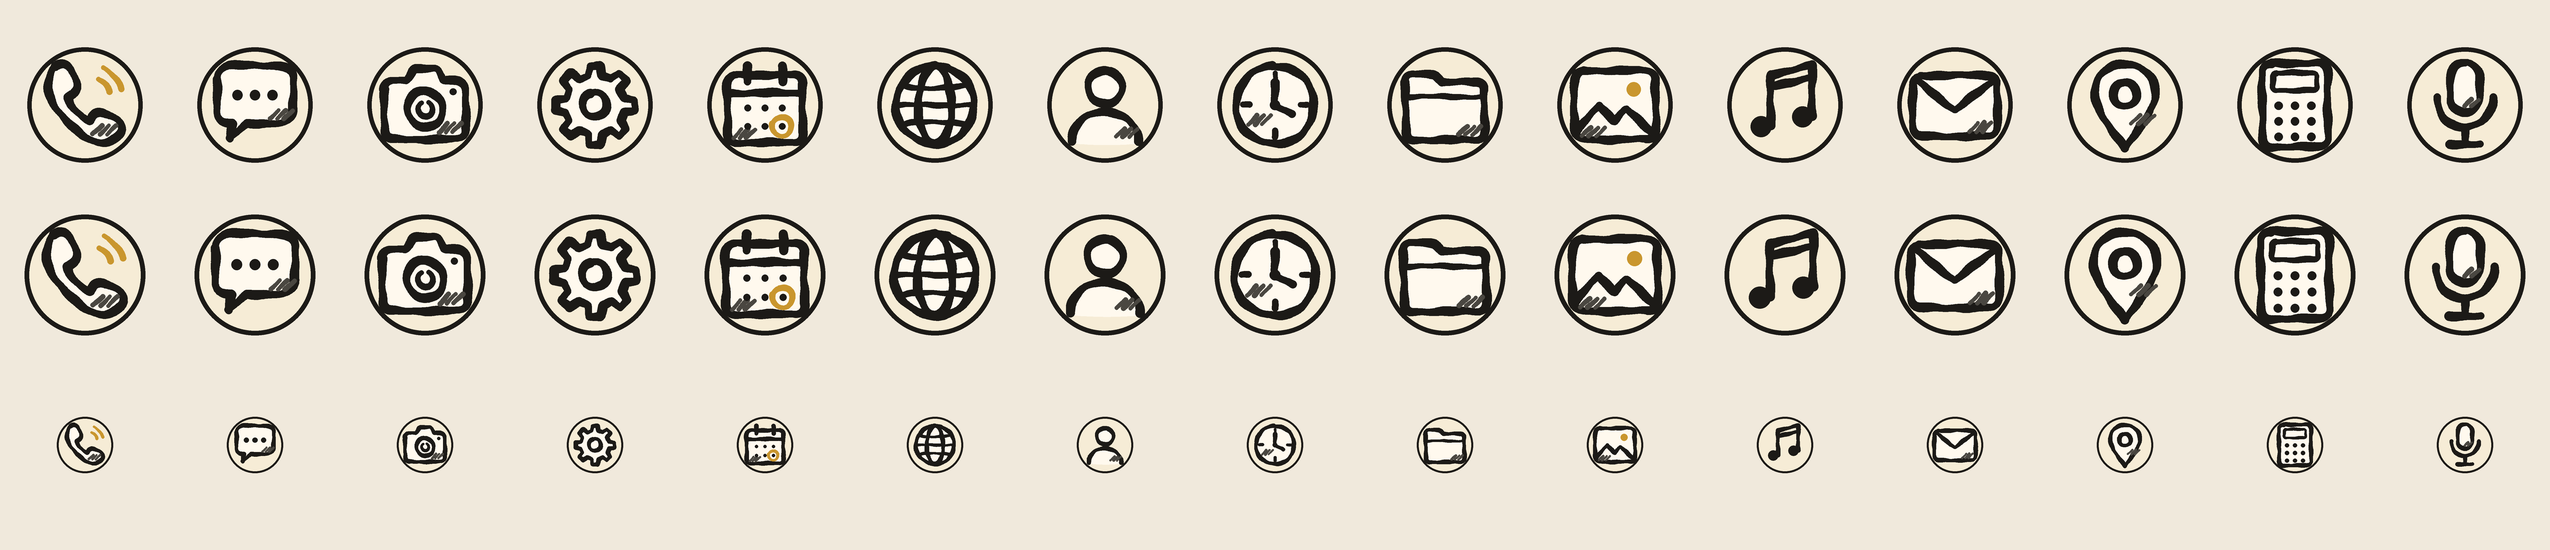
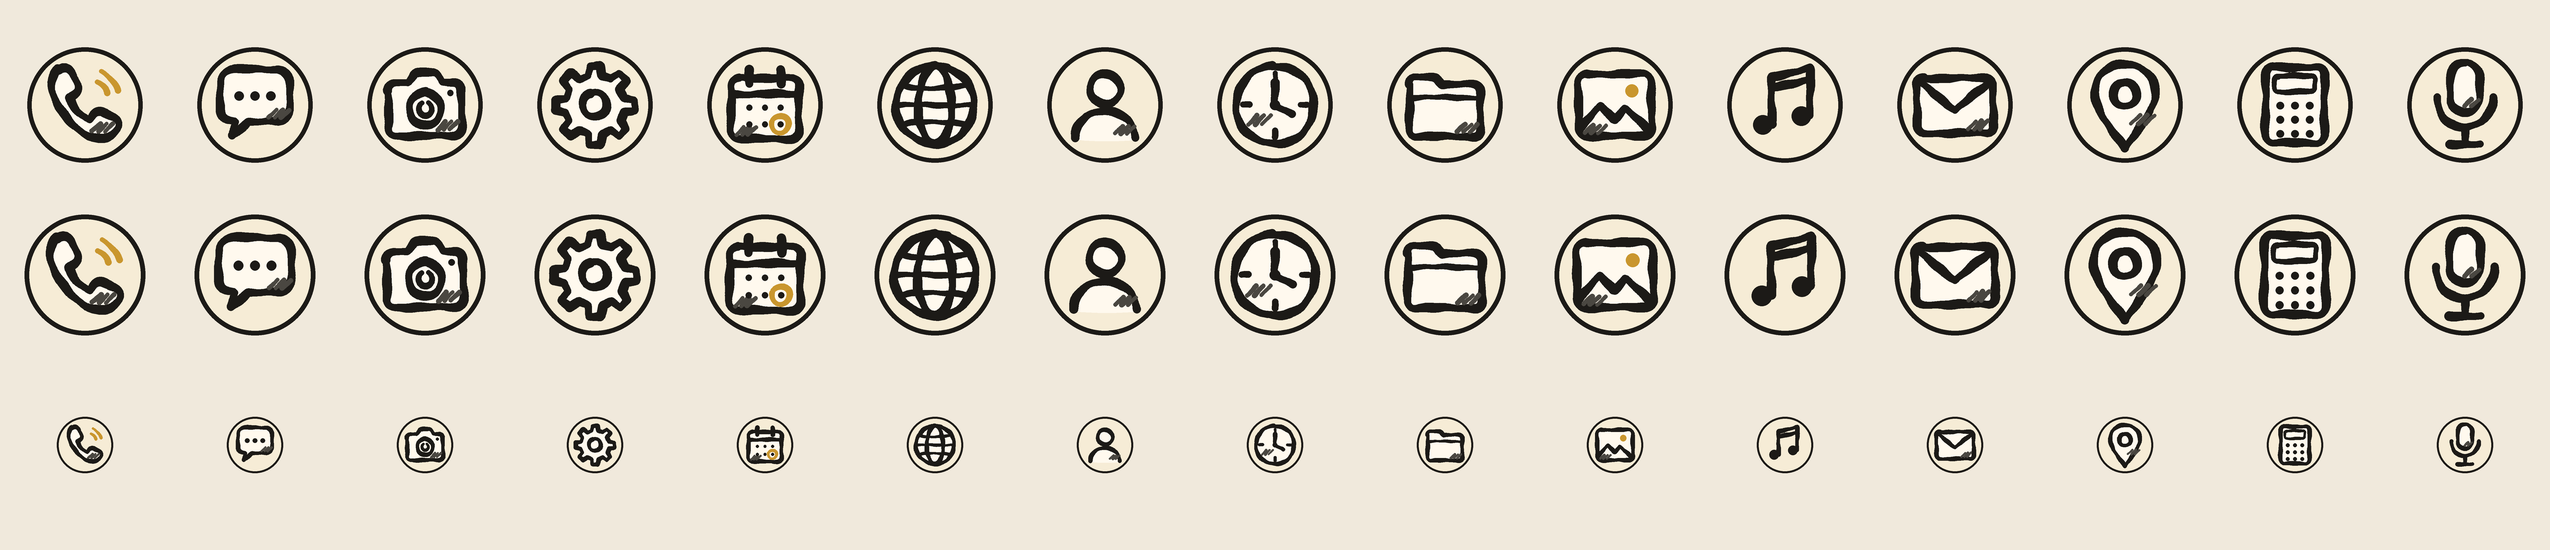
Ink sketch symbols: more clear paper between symbol and ring

diff --git a/app/src/main/java/com/rr/numio/launcher/sketch/SketchGlyphs.kt b/app/src/main/java/com/rr/numio/launcher/sketch/SketchGlyphs.kt
@@ -7,27 +7,27 @@ object SketchGlyphs {
 
     val all: Map<SketchKind, List<Layer>> = mapOf(
         SketchKind.Phone to listOf(
-            Layer.Fill(Tone.CREAM, "M31.2,25.3 C35.2,22.9 39.6,24.3 41.6,28.8 L44.6,36.2 C45.7,39.1 44.7,41.7 42.1,43.3 L39.3,45.1 C41.7,51.5 46.6,56.9 53.2,60.3 L54.9,57.5 C56.5,55.1 59.1,54.3 61.8,55.3 L69.3,58.3 C73.7,60.1 74.9,64.6 71.9,68.4 C66.3,74.9 57.4,75.3 47.6,68.4 C37.6,61.3 28.9,50 27.3,40.7 C26.5,35.2 27.7,28.3 31.2,25.3 Z"),
-            Layer.Ink("M31.2,25.3 C35.2,22.9 39.6,24.3 41.6,28.8 L44.6,36.2 C45.7,39.1 44.7,41.7 42.1,43.3 L39.3,45.1 C41.7,51.5 46.6,56.9 53.2,60.3 L54.9,57.5 C56.5,55.1 59.1,54.3 61.8,55.3 L69.3,58.3 C73.7,60.1 74.9,64.6 71.9,68.4 C66.3,74.9 57.4,75.3 47.6,68.4 C37.6,61.3 28.9,50 27.3,40.7 C26.5,35.2 27.7,28.3 31.2,25.3 Z"),
-            Layer.Hatch("M54.9,68.3 L60.5,62.7 M59.3,68.3 L64.8,62.7 M63.6,68.3 L69.2,62.7"),
-            Layer.Thin(Tone.GOLD, "M58.5,33.8 C61.6,35.5 64,38.4 65.1,41.8"),
-            Layer.Thin(Tone.GOLD, "M61.5,26.5 C67,29.3 71.1,34.1 72.8,40"),
+            Layer.Fill(Tone.CREAM, "M33.1,27.7 C36.6,25.5 40.6,26.8 42.4,30.8 L45.1,37.5 C46.1,40.2 45.2,42.5 42.9,43.9 L40.4,45.5 C42.5,51.3 47,56.2 52.9,59.3 L54.5,56.8 C55.9,54.6 58.2,53.9 60.7,54.8 L67.5,57.5 C71.4,59.1 72.5,63.2 69.8,66.6 C64.7,72.5 56.7,72.8 47.9,66.6 C38.8,60.2 30.9,50 29.5,41.6 C28.8,36.6 29.8,30.4 33.1,27.7 Z"),
+            Layer.Ink("M33.1,27.7 C36.6,25.5 40.6,26.8 42.4,30.8 L45.1,37.5 C46.1,40.2 45.2,42.5 42.9,43.9 L40.4,45.5 C42.5,51.3 47,56.2 52.9,59.3 L54.5,56.8 C55.9,54.6 58.2,53.9 60.7,54.8 L67.5,57.5 C71.4,59.1 72.5,63.2 69.8,66.6 C64.7,72.5 56.7,72.8 47.9,66.6 C38.8,60.2 30.9,50 29.5,41.6 C28.8,36.6 29.8,30.4 33.1,27.7 Z"),
+            Layer.Hatch("M54.5,66.5 L59.5,61.5 M58.4,66.5 L63.4,61.5 M62.3,66.5 L67.3,61.5"),
+            Layer.Thin(Tone.GOLD, "M57.7,35.4 C60.5,36.9 62.7,39.5 63.6,42.6"),
+            Layer.Thin(Tone.GOLD, "M60.3,28.8 C65.3,31.3 69.1,35.6 70.6,41"),
         ),
         SketchKind.Messages to listOf(
-            Layer.Fill(Tone.CREAM, "M26.1,33.8 C26.1,28.5 29.9,25.2 35.2,25.2 L64.8,25.2 C70.1,25.2 73.9,28.5 73.9,33.8 L73.9,52.9 C73.9,58.1 70.1,61.5 64.8,61.5 L45.2,61.5 L33.8,71.5 L36.1,61.5 L35.2,61.5 C29.9,61.5 26.1,58.1 26.1,52.9 Z"),
-            Layer.Ink("M26.1,33.8 C26.1,28.5 29.9,25.2 35.2,25.2 L64.8,25.2 C70.1,25.2 73.9,28.5 73.9,33.8 L73.9,52.9 C73.9,58.1 70.1,61.5 64.8,61.5 L45.2,61.5 L33.8,71.5 L36.1,61.5 L35.2,61.5 C29.9,61.5 26.1,58.1 26.1,52.9 Z"),
-            Layer.Hatch("M59.6,58.6 L64.9,53.2 M63.8,58.6 L69.1,53.2 M68,58.6 L73.3,53.2"),
-            Layer.Dot(Tone.INK, 39f, 43.8f, 3.2f),
-            Layer.Dot(Tone.INK, 50f, 43.8f, 3.2f),
-            Layer.Dot(Tone.INK, 61f, 43.8f, 3.2f),
+            Layer.Fill(Tone.CREAM, "M28.4,35.3 C28.4,30.6 31.9,27.6 36.6,27.6 L63.4,27.6 C68.1,27.6 71.6,30.6 71.6,35.3 L71.6,52.6 C71.6,57.3 68.1,60.4 63.4,60.4 L45.7,60.4 L35.3,69.4 L37.5,60.4 L36.6,60.4 C31.9,60.4 28.4,57.3 28.4,52.6 Z"),
+            Layer.Ink("M28.4,35.3 C28.4,30.6 31.9,27.6 36.6,27.6 L63.4,27.6 C68.1,27.6 71.6,30.6 71.6,35.3 L71.6,52.6 C71.6,57.3 68.1,60.4 63.4,60.4 L45.7,60.4 L35.3,69.4 L37.5,60.4 L36.6,60.4 C31.9,60.4 28.4,57.3 28.4,52.6 Z"),
+            Layer.Hatch("M58.6,57.8 L63.5,52.9 M62.4,57.8 L67.3,52.9 M66.2,57.8 L71.1,52.9"),
+            Layer.Dot(Tone.INK, 40.1f, 44.4f, 2.9f),
+            Layer.Dot(Tone.INK, 50f, 44.4f, 2.9f),
+            Layer.Dot(Tone.INK, 59.9f, 44.4f, 2.9f),
         ),
         SketchKind.Camera to listOf(
-            Layer.Fill(Tone.CREAM, "M24.6,40.2 C24.6,36.8 27,34.4 30.4,34.4 L38.3,34.4 L41.7,29 C42.5,27.8 43.5,27.3 44.9,27.3 L55.1,27.3 C56.5,27.3 57.5,27.8 58.3,29 L61.7,34.4 L69.6,34.4 C73,34.4 75.4,36.8 75.4,40.2 L75.4,65.6 C75.4,69.1 73,71.5 69.6,71.5 L30.4,71.5 C27,71.5 24.6,69.1 24.6,65.6 Z"),
-            Layer.Ink("M24.6,40.2 C24.6,36.8 27,34.4 30.4,34.4 L38.3,34.4 L41.7,29 C42.5,27.8 43.5,27.3 44.9,27.3 L55.1,27.3 C56.5,27.3 57.5,27.8 58.3,29 L61.7,34.4 L69.6,34.4 C73,34.4 75.4,36.8 75.4,40.2 L75.4,65.6 C75.4,69.1 73,71.5 69.6,71.5 L30.4,71.5 C27,71.5 24.6,69.1 24.6,65.6 Z"),
-            Layer.Hatch("M58.8,67.1 L64.3,61.6 M63.1,67.1 L68.6,61.6 M67.4,67.1 L72.9,61.6"),
-            Layer.Ink("M48,41.4 C53,40.5 57.9,43.1 60.2,47.6 C62.3,52.2 61.2,57.6 57.4,61 C53.6,64.3 48,64.6 43.8,61.8 C39.6,59.1 37.8,53.8 39.2,49 C40.8,44.2 45.3,41 50.4,41.2"),
-            Layer.Thin(Tone.INK, "M52.2,48.5 C54,49.6 54.9,51.7 54.3,53.6 C53.8,55.6 52.1,56.9 50,56.9 C47.9,56.9 46.2,55.6 45.7,53.6 C45.1,51.7 46,49.6 47.8,48.5"),
-            Layer.Dot(Tone.INK, 67.6f, 41.7f, 2.2f),
+            Layer.Fill(Tone.CREAM, "M27,41.2 C27,38.1 29.2,35.9 32.3,35.9 L39.4,35.9 L42.5,31 C43.2,30 44.2,29.5 45.4,29.5 L54.6,29.5 C55.8,29.5 56.8,30 57.5,31 L60.6,35.9 L67.7,35.9 C70.8,35.9 73,38.1 73,41.2 L73,64.1 C73,67.2 70.8,69.4 67.7,69.4 L32.3,69.4 C29.2,69.4 27,67.2 27,64.1 Z"),
+            Layer.Ink("M27,41.2 C27,38.1 29.2,35.9 32.3,35.9 L39.4,35.9 L42.5,31 C43.2,30 44.2,29.5 45.4,29.5 L54.6,29.5 C55.8,29.5 56.8,30 57.5,31 L60.6,35.9 L67.7,35.9 C70.8,35.9 73,38.1 73,41.2 L73,64.1 C73,67.2 70.8,69.4 67.7,69.4 L32.3,69.4 C29.2,69.4 27,67.2 27,64.1 Z"),
+            Layer.Hatch("M57.9,65.5 L62.9,60.5 M61.8,65.5 L66.8,60.5 M65.7,65.5 L70.7,60.5"),
+            Layer.Ink("M48.2,42.2 C52.7,41.4 57.2,43.7 59.2,47.8 C61.1,51.9 60.2,56.9 56.7,59.9 C53.3,62.9 48.2,63.2 44.4,60.7 C40.6,58.2 39,53.4 40.3,49.1 C41.7,44.8 45.8,41.9 50.4,42.1"),
+            Layer.Thin(Tone.INK, "M52,48.7 C53.6,49.6 54.4,51.5 53.9,53.3 C53.4,55 51.9,56.3 50,56.3 C48.1,56.3 46.6,55 46.1,53.3 C45.6,51.5 46.4,49.6 48,48.7"),
+            Layer.Dot(Tone.INK, 65.9f, 42.5f, 1.9f),
         ),
         SketchKind.Settings to listOf(
             Layer.Fill(Tone.CREAM, "M45.6,31.7 L46.7,25.2 L53.3,25.2 L54.4,31.7 L59.8,34 L65.2,30.1 L69.9,34.8 L66,40.2 L68.3,45.6 L74.8,46.7 L74.8,53.3 L68.3,54.4 L66,59.8 L69.9,65.2 L65.2,69.9 L59.8,66 L54.4,68.3 L53.3,74.8 L46.7,74.8 L45.6,68.3 L40.2,66 L34.8,69.9 L30.1,65.2 L34,59.8 L31.7,54.4 L25.2,53.3 L25.2,46.7 L31.7,45.6 L34,40.2 L30.1,34.8 L34.8,30.1 L40.2,34 Z"),
@@ -35,19 +35,19 @@ object SketchGlyphs {
             Layer.Ink("M46.2,43.4 C49.1,41.7 52.8,42.2 55.2,44.5 C57.7,46.8 58.3,50.5 56.8,53.5 C55.2,56.5 51.9,58.1 48.6,57.5 C45.3,56.8 42.8,54.1 42.4,50.7 C42.1,47.4 44,44.2 47.2,43"),
         ),
         SketchKind.Calendar to listOf(
-            Layer.Fill(Tone.CREAM, "M32.1,31.1 L67.9,31.1 C71,31.1 73.6,33.7 73.6,36.8 L73.6,67.9 C73.6,71 71,73.6 67.9,73.6 L32.1,73.6 C29,73.6 26.4,71 26.4,67.9 L26.4,36.8 C26.4,33.7 29,31.1 32.1,31.1 Z"),
-            Layer.Ink("M32.1,31.1 L67.9,31.1 C71,31.1 73.6,33.7 73.6,36.8 L73.6,67.9 C73.6,71 71,73.6 67.9,73.6 L32.1,73.6 C29,73.6 26.4,71 26.4,67.9 L26.4,36.8 C26.4,33.7 29,31.1 32.1,31.1 Z"),
-            Layer.Hatch("M30.2,70.8 L35.5,65.5 M34.3,70.8 L39.6,65.5 M38.5,70.8 L43.8,65.5"),
-            Layer.Ink("M27.4,42.5 L73.1,42.5"),
-            Layer.Ink("M38.7,25.5 L38.7,35.4"),
-            Layer.Ink("M61.3,25.5 L61.3,35.4"),
-            Layer.Thin(Tone.GOLD, "M55.7,60.4 C57.2,57.6 60.7,56.6 63.5,58 C66.4,59.4 67.6,62.7 66.4,65.7 C65.2,68.7 61.9,70.1 58.9,69.1 C55.8,68.1 54.2,64.9 55,61.8"),
-            Layer.Dot(Tone.INK, 39.2f, 51.9f, 2.1f),
-            Layer.Dot(Tone.INK, 50f, 51.9f, 2.1f),
-            Layer.Dot(Tone.INK, 60.8f, 51.9f, 2.1f),
-            Layer.Dot(Tone.INK, 39.2f, 63.4f, 2.1f),
-            Layer.Dot(Tone.INK, 50f, 63.4f, 2.1f),
-            Layer.Dot(Tone.INK, 60.8f, 63.4f, 2.1f),
+            Layer.Fill(Tone.CREAM, "M33.8,33 L66.2,33 C69,33 71.3,35.3 71.3,38.1 L71.3,66.2 C71.3,69 69,71.3 66.2,71.3 L33.8,71.3 C31,71.3 28.7,69 28.7,66.2 L28.7,38.1 C28.7,35.3 31,33 33.8,33 Z"),
+            Layer.Ink("M33.8,33 L66.2,33 C69,33 71.3,35.3 71.3,38.1 L71.3,66.2 C71.3,69 69,71.3 66.2,71.3 L33.8,71.3 C31,71.3 28.7,69 28.7,66.2 L28.7,38.1 C28.7,35.3 31,33 33.8,33 Z"),
+            Layer.Hatch("M32.1,68.7 L36.9,64 M35.9,68.7 L40.6,64 M39.6,68.7 L44.4,64"),
+            Layer.Ink("M29.6,43.2 L70.9,43.2"),
+            Layer.Ink("M39.8,27.8 L39.8,36.8"),
+            Layer.Ink("M60.2,27.8 L60.2,36.8"),
+            Layer.Thin(Tone.GOLD, "M55.1,59.4 C56.5,56.9 59.6,56 62.2,57.2 C64.8,58.5 65.9,61.5 64.8,64.1 C63.7,66.9 60.7,68.1 58,67.3 C55.3,66.4 53.7,63.5 54.5,60.7"),
+            Layer.Dot(Tone.INK, 40.2f, 51.7f, 1.9f),
+            Layer.Dot(Tone.INK, 50f, 51.7f, 1.9f),
+            Layer.Dot(Tone.INK, 59.8f, 51.7f, 1.9f),
+            Layer.Dot(Tone.INK, 40.2f, 62.1f, 1.9f),
+            Layer.Dot(Tone.INK, 50f, 62.1f, 1.9f),
+            Layer.Dot(Tone.INK, 59.8f, 62.1f, 1.9f),
         ),
         SketchKind.Browser to listOf(
             Layer.Fill(Tone.CREAM, "M74.5,50 C74.5,63.5 63.5,74.5 50,74.5 C36.5,74.5 25.5,63.5 25.5,50 C25.5,36.5 36.5,25.5 50,25.5 C63.5,25.5 74.5,36.5 74.5,50 Z"),
@@ -58,11 +58,11 @@ object SketchGlyphs {
             Layer.Thin(Tone.INK, "M29.8,62.5 C40.5,59.7 59.5,59.7 70.2,62.5"),
         ),
         SketchKind.Contacts to listOf(
-            Layer.Fill(Tone.CREAM, "M60.5,39 C60.5,44.9 55.8,49.5 50,49.5 C44.2,49.5 39.5,44.9 39.5,39 C39.5,33.2 44.2,28.6 50,28.6 C55.8,28.6 60.5,33.2 60.5,39 Z"),
-            Layer.Fill(Tone.CREAM, "M29,72.8 C29,61 38.1,54.6 50,54.6 C61.9,54.6 71,61 71,72.8 C62.8,74.2 37.2,74.2 29,72.8 Z"),
-            Layer.Ink("M53.6,29.2 C57.9,30.7 60.8,35 60.5,39.6 C60.2,44.3 56.9,48.2 52.5,49.3 C48,50.4 43.2,48.4 41,44.3 C38.6,40.3 39.1,35.3 42.3,31.9 C45.4,28.6 50.5,27.6 54.6,29.7"),
-            Layer.Ink("M29,72.8 C29,61 38.1,54.6 50,54.6 C61.9,54.6 71,61 71,72.8"),
-            Layer.Hatch("M57.3,70.1 L62.4,65 M61.3,70.1 L66.4,65 M65.3,70.1 L70.4,65"),
+            Layer.Fill(Tone.CREAM, "M59.5,40.1 C59.5,45.4 55.3,49.6 50,49.6 C44.7,49.6 40.5,45.4 40.5,40.1 C40.5,34.8 44.7,30.6 50,30.6 C55.3,30.6 59.5,34.8 59.5,40.1 Z"),
+            Layer.Fill(Tone.CREAM, "M31,70.6 C31,59.9 39.3,54.1 50,54.1 C60.7,54.1 69,59.9 69,70.6 C61.5,71.8 38.5,71.8 31,70.6 Z"),
+            Layer.Ink("M53.2,31.2 C57.2,32.6 59.7,36.5 59.5,40.6 C59.2,44.8 56.3,48.4 52.2,49.3 C48.2,50.3 43.9,48.5 41.8,44.9 C39.7,41.3 40.2,36.7 43.1,33.7 C45.9,30.6 50.4,29.7 54.1,31.6"),
+            Layer.Ink("M31,70.6 C31,59.9 39.3,54.1 50,54.1 C60.7,54.1 69,59.9 69,70.6"),
+            Layer.Hatch("M56.6,68.1 L61.2,63.5 M60.2,68.1 L64.8,63.5 M63.8,68.1 L68.5,63.5"),
         ),
         SketchKind.Clock to listOf(
             Layer.Fill(Tone.CREAM, "M74.5,50 C74.5,63.5 63.5,74.5 50,74.5 C36.5,74.5 25.5,63.5 25.5,50 C25.5,36.5 36.5,25.5 50,25.5 C63.5,25.5 74.5,36.5 74.5,50 Z"),
@@ -77,29 +77,29 @@ object SketchGlyphs {
             Layer.Dot(Tone.INK, 50f, 50f, 3.2f),
         ),
         SketchKind.Files to listOf(
-            Layer.Fill(Tone.CREAM, "M25.3,35.7 C25.3,32.4 27.4,30.5 30.5,30.5 L41.9,30.5 C43.3,30.5 44.5,31.1 45.3,32.1 L48.1,35.7 L69.5,35.7 C72.6,35.7 74.7,37.8 74.7,41 L74.7,66.6 C74.7,69.8 72.6,71.9 69.5,71.9 L30.5,71.9 C27.4,71.9 25.3,69.8 25.3,66.6 Z"),
-            Layer.Ink("M25.3,35.7 C25.3,32.4 27.4,30.5 30.5,30.5 L41.9,30.5 C43.3,30.5 44.5,31.1 45.3,32.1 L48.1,35.7 L69.5,35.7 C72.6,35.7 74.7,37.8 74.7,41 L74.7,66.6 C74.7,69.8 72.6,71.9 69.5,71.9 L30.5,71.9 C27.4,71.9 25.3,69.8 25.3,66.6 Z"),
-            Layer.Thin(Tone.INK, "M25.7,44.8 L74.3,44.8"),
-            Layer.Hatch("M58.6,68.5 L63.9,63.2 M62.7,68.5 L68.1,63.2 M66.9,68.5 L72.3,63.2"),
+            Layer.Fill(Tone.CREAM, "M27.7,37.1 C27.7,34.1 29.6,32.4 32.4,32.4 L42.7,32.4 C44,32.4 45,32.9 45.8,33.8 L48.3,37.1 L67.6,37.1 C70.4,37.1 72.3,39 72.3,41.8 L72.3,65 C72.3,67.9 70.4,69.8 67.6,69.8 L32.4,69.8 C29.6,69.8 27.7,67.9 27.7,65 Z"),
+            Layer.Ink("M27.7,37.1 C27.7,34.1 29.6,32.4 32.4,32.4 L42.7,32.4 C44,32.4 45,32.9 45.8,33.8 L48.3,37.1 L67.6,37.1 C70.4,37.1 72.3,39 72.3,41.8 L72.3,65 C72.3,67.9 70.4,69.8 67.6,69.8 L32.4,69.8 C29.6,69.8 27.7,67.9 27.7,65 Z"),
+            Layer.Thin(Tone.INK, "M28.1,45.3 L71.9,45.3"),
+            Layer.Hatch("M57.7,66.8 L62.5,61.9 M61.5,66.8 L66.3,61.9 M65.3,66.8 L70.1,61.9"),
         ),
         SketchKind.Gallery to listOf(
-            Layer.Fill(Tone.CREAM, "M30.4,28.4 L69.6,28.4 C72.9,28.4 75.5,31.1 75.5,34.3 L75.5,65.7 C75.5,68.9 72.9,71.6 69.6,71.6 L30.4,71.6 C27.1,71.6 24.5,68.9 24.5,65.7 L24.5,34.3 C24.5,31.1 27.1,28.4 30.4,28.4 Z"),
-            Layer.Ink("M30.4,28.4 L69.6,28.4 C72.9,28.4 75.5,31.1 75.5,34.3 L75.5,65.7 C75.5,68.9 72.9,71.6 69.6,71.6 L30.4,71.6 C27.1,71.6 24.5,68.9 24.5,65.7 L24.5,34.3 C24.5,31.1 27.1,28.4 30.4,28.4 Z"),
-            Layer.Ink("M26.5,65.7 L40.2,50 L49.5,59.8 L56.9,52.5 L74,67.7"),
-            Layer.Dot(Tone.GOLD, 61.8f, 40.2f, 4.5f),
-            Layer.Hatch("M29.4,69.6 L34.9,64.1 M33.7,69.6 L39.2,64.1 M38,69.6 L43.5,64.1"),
+            Layer.Fill(Tone.CREAM, "M32.3,30.5 L67.7,30.5 C70.6,30.5 73,32.9 73,35.8 L73,64.2 C73,67.1 70.6,69.5 67.7,69.5 L32.3,69.5 C29.4,69.5 27,67.1 27,64.2 L27,35.8 C27,32.9 29.4,30.5 32.3,30.5 Z"),
+            Layer.Ink("M32.3,30.5 L67.7,30.5 C70.6,30.5 73,32.9 73,35.8 L73,64.2 C73,67.1 70.6,69.5 67.7,69.5 L32.3,69.5 C29.4,69.5 27,67.1 27,64.2 L27,35.8 C27,32.9 29.4,30.5 32.3,30.5 Z"),
+            Layer.Ink("M28.7,64.2 L41.1,50 L49.6,58.9 L56.2,52.2 L71.7,65.9"),
+            Layer.Dot(Tone.GOLD, 60.6f, 41.1f, 4.1f),
+            Layer.Hatch("M31.4,67.7 L36.4,62.8 M35.3,67.7 L40.3,62.8 M39.2,67.7 L44.2,62.8"),
         ),
         SketchKind.Music to listOf(
-            Layer.Ink("M41,63 L41,31 L67,25 L67,57"),
-            Layer.Ink("M41,38.5 L67,32.5"),
-            Layer.Dot(Tone.INK, 35f, 63.5f, 6.6f),
-            Layer.Dot(Tone.INK, 61f, 57.5f, 6.6f),
+            Layer.Ink("M41.7,62 L41.7,32.4 L65.7,26.8 L65.7,56.5"),
+            Layer.Ink("M41.7,39.3 L65.7,33.8"),
+            Layer.Dot(Tone.INK, 36.1f, 62.5f, 6.1f),
+            Layer.Dot(Tone.INK, 60.2f, 56.9f, 6.1f),
         ),
         SketchKind.Email to listOf(
-            Layer.Fill(Tone.CREAM, "M28.4,31.4 L71.6,31.4 C74.3,31.4 76.4,33.5 76.4,36.3 L76.4,64.7 C76.4,67.4 74.3,69.6 71.6,69.6 L28.4,69.6 C25.7,69.6 23.6,67.4 23.6,64.7 L23.6,36.3 C23.6,33.5 25.7,31.4 28.4,31.4 Z"),
-            Layer.Ink("M28.4,31.4 L71.6,31.4 C74.3,31.4 76.4,33.5 76.4,36.3 L76.4,64.7 C76.4,67.4 74.3,69.6 71.6,69.6 L28.4,69.6 C25.7,69.6 23.6,67.4 23.6,64.7 L23.6,36.3 C23.6,33.5 25.7,31.4 28.4,31.4 Z"),
-            Layer.Ink("M25.5,34.3 L50,53.4 L74.5,34.3"),
-            Layer.Hatch("M58.8,66.7 L64.3,61.2 M63.1,66.7 L68.6,61.2 M67.4,66.7 L72.9,61.2"),
+            Layer.Fill(Tone.CREAM, "M30.5,33.2 L69.5,33.2 C71.9,33.2 73.9,35.1 73.9,37.6 L73.9,63.3 C73.9,65.7 71.9,67.7 69.5,67.7 L30.5,67.7 C28.1,67.7 26.1,65.7 26.1,63.3 L26.1,37.6 C26.1,35.1 28.1,33.2 30.5,33.2 Z"),
+            Layer.Ink("M30.5,33.2 L69.5,33.2 C71.9,33.2 73.9,35.1 73.9,37.6 L73.9,63.3 C73.9,65.7 71.9,67.7 69.5,67.7 L30.5,67.7 C28.1,67.7 26.1,65.7 26.1,63.3 L26.1,37.6 C26.1,35.1 28.1,33.2 30.5,33.2 Z"),
+            Layer.Ink("M27.9,35.8 L50,53.1 L72.1,35.8"),
+            Layer.Hatch("M58,65 L62.9,60.1 M61.9,65 L66.8,60.1 M65.7,65 L70.7,60.1"),
         ),
         SketchKind.Maps to listOf(
             Layer.Fill(Tone.CREAM, "M50,77 C44.5,67 31,56 31,43 C31,32.5 39.5,24 50,24 C60.5,24 69,32.5 69,43 C69,56 55.5,67 50,77 Z"),
@@ -108,18 +108,18 @@ object SketchGlyphs {
             Layer.Hatch("M54,62 L59.6,56.4 M58.4,62 L64,56.4 M62.8,62 L68.4,56.4"),
         ),
         SketchKind.Calculator to listOf(
-            Layer.Fill(Tone.CREAM, "M35.4,23.7 L64.6,23.7 C67.8,23.7 70.5,26.3 70.5,29.5 L70.5,70.5 C70.5,73.7 67.8,76.3 64.6,76.3 L35.4,76.3 C32.2,76.3 29.5,73.7 29.5,70.5 L29.5,29.5 C29.5,26.3 32.2,23.7 35.4,23.7 Z"),
-            Layer.Ink("M35.4,23.7 L64.6,23.7 C67.8,23.7 70.5,26.3 70.5,29.5 L70.5,70.5 C70.5,73.7 67.8,76.3 64.6,76.3 L35.4,76.3 C32.2,76.3 29.5,73.7 29.5,70.5 L29.5,29.5 C29.5,26.3 32.2,23.7 35.4,23.7 Z"),
-            Layer.Thin(Tone.INK, "M38.3,30 L61.7,30 C63.1,30 64.1,31.1 64.1,32.5 L64.1,38.3 C64.1,39.7 63.1,40.7 61.7,40.7 L38.3,40.7 C36.9,40.7 35.9,39.7 35.9,38.3 L35.9,32.5 C35.9,31.1 36.9,30 38.3,30 Z"),
-            Layer.Dot(Tone.INK, 39.8f, 50.5f, 2.6f),
-            Layer.Dot(Tone.INK, 50f, 50.5f, 2.6f),
-            Layer.Dot(Tone.INK, 60.2f, 50.5f, 2.6f),
-            Layer.Dot(Tone.INK, 39.8f, 60.2f, 2.6f),
-            Layer.Dot(Tone.INK, 50f, 60.2f, 2.6f),
-            Layer.Dot(Tone.INK, 60.2f, 60.2f, 2.6f),
-            Layer.Dot(Tone.INK, 39.8f, 70f, 2.6f),
-            Layer.Dot(Tone.INK, 50f, 70f, 2.6f),
-            Layer.Dot(Tone.INK, 60.2f, 70f, 2.6f),
+            Layer.Fill(Tone.CREAM, "M36.8,26.2 L63.2,26.2 C66.1,26.2 68.5,28.6 68.5,31.5 L68.5,68.5 C68.5,71.4 66.1,73.8 63.2,73.8 L36.8,73.8 C33.9,73.8 31.5,71.4 31.5,68.5 L31.5,31.5 C31.5,28.6 33.9,26.2 36.8,26.2 Z"),
+            Layer.Ink("M36.8,26.2 L63.2,26.2 C66.1,26.2 68.5,28.6 68.5,31.5 L68.5,68.5 C68.5,71.4 66.1,73.8 63.2,73.8 L36.8,73.8 C33.9,73.8 31.5,71.4 31.5,68.5 L31.5,31.5 C31.5,28.6 33.9,26.2 36.8,26.2 Z"),
+            Layer.Thin(Tone.INK, "M39.4,31.9 L60.6,31.9 C61.8,31.9 62.8,32.9 62.8,34.2 L62.8,39.4 C62.8,40.7 61.8,41.6 60.6,41.6 L39.4,41.6 C38.2,41.6 37.2,40.7 37.2,39.4 L37.2,34.2 C37.2,32.9 38.2,31.9 39.4,31.9 Z"),
+            Layer.Dot(Tone.INK, 40.8f, 50.4f, 2.4f),
+            Layer.Dot(Tone.INK, 50f, 50.4f, 2.4f),
+            Layer.Dot(Tone.INK, 59.2f, 50.4f, 2.4f),
+            Layer.Dot(Tone.INK, 40.8f, 59.2f, 2.4f),
+            Layer.Dot(Tone.INK, 50f, 59.2f, 2.4f),
+            Layer.Dot(Tone.INK, 59.2f, 59.2f, 2.4f),
+            Layer.Dot(Tone.INK, 40.8f, 68.1f, 2.4f),
+            Layer.Dot(Tone.INK, 50f, 68.1f, 2.4f),
+            Layer.Dot(Tone.INK, 59.2f, 68.1f, 2.4f),
         ),
         SketchKind.Recorder to listOf(
             Layer.Fill(Tone.CREAM, "M50,23 L50,23 C55,23 59,27 59,32 L59,46 C59,51 55,55 50,55 L50,55 C45,55 41,51 41,46 L41,32 C41,27 45,23 50,23 Z"),

diff --git a/art/sketch-icons/glyphs.py b/art/sketch-icons/glyphs.py
@@ -242,7 +242,7 @@ GLYPHS["recorder"] = [
 
 # ── one size for all: every drawing fits inside the same inner circle ─────────
 
-FIT_R = 31.0   # grid units from the centre; keeps clear paper between symbol and ring
+FIT_R = 28.0   # grid units from the centre; keeps clear paper between symbol and ring
 
 
 def _scale_path(d, k):
